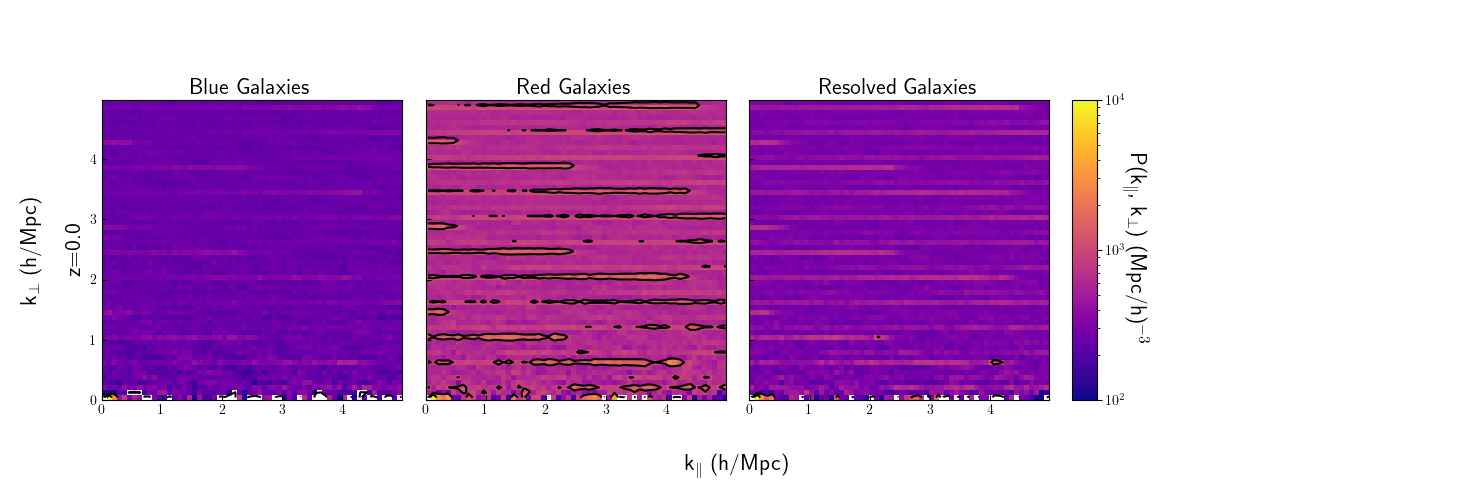
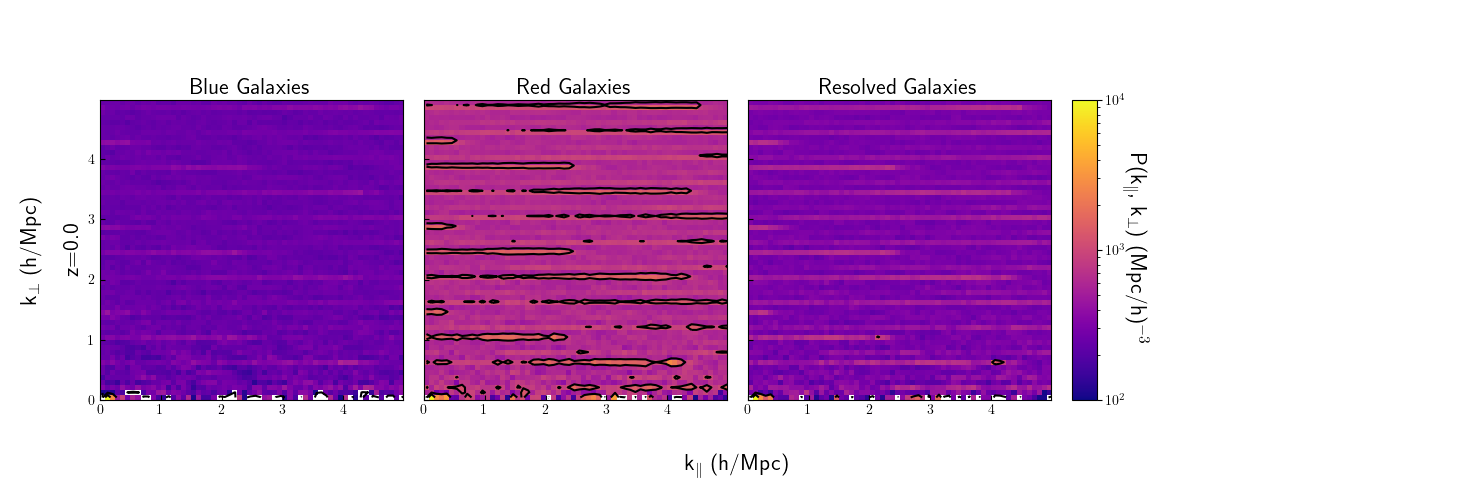
new figs

diff --git a/hc_lib/plots/fig_lib.py b/hc_lib/plots/fig_lib.py
@@ -231,7 +231,7 @@ class FigureLibrary():
                 # x_bound, y_bound, mass = pslice.getValues()
                 # extent=(x_bound[0], x_bound[1], y_bound[0], y_bound[1])
                 
-                im = plt.imshow(mass, extent=extent, origin='lower')
+                im = plt.imshow(mass, aspect = 'auto', extent=extent, origin='lower')
                 
 
         
@@ -245,8 +245,9 @@ class FigureLibrary():
                 plt.sca(p)
                 hist = self.figArr[i,j][0]
                 xbins, ybins, counts = hist.getValues()
+                counts = np.rot90(np.flip(counts, axis=0), 3)
                 extent = (xbins[0], xbins[-1], ybins[0], ybins[-1])
-                plt.imshow(counts, origin='lower', extent=extent)
+                plt.imshow(counts, origin='lower', extent=extent, aspect = 'auto')
                 if make_lines:
                     plt.plot([xbins[0], xbins[-1]], [0.6, 0.6], color='red')
                     plt.plot([xbins[0], xbins[-1]], [0.55, 0.55], color='red')
@@ -276,7 +277,7 @@ class FigureLibrary():
                 vmax = np.max(plotpk)
                 print(plotpk)
                 plt.imshow(plotpk, extent=extent, vmin = vmin, vmax = vmax, 
-                            origin='lower')
+                            origin='lower', aspect = 'auto')
                 
         return
     
@@ -378,7 +379,7 @@ class FigureLibrary():
 
     # TODO: add variance
     def makeColorbars(self, cbar_label = '', def_cmap = 'plasma', fsize = 16, vlim=[],
-                except_panels = []):
+                label_pad = 16, except_panels = []):
         
         if self.has_cbar_panel:
             self.matchColorbarLimits(vlim=vlim)
@@ -388,14 +389,15 @@ class FigureLibrary():
             self.assignColormaps(cmap_arr, under='w')
             cbar = plt.colorbar(cax=self.cax)
             self.cax.set_aspect(12, anchor='W')
-            cbar.set_label(cbar_label, labelpad = 16, fontsize = fsize, rotation=270)
+            cbar.set_label(cbar_label, labelpad = label_pad, fontsize = fsize, rotation=270)
         else:
             for i in range(self.dim[0]):
                 for j in range(self.dim[1]):
                     if (i,j) not in except_panels:
                         plt.sca(self.panels[i][j])
                         cbar = plt.colorbar(fraction=0.046, pad=0.04)
-                        cbar.set_label(cbar_label, rotation=270, fontsize=fsize)
+                        if j == self.dim[1] - 1:
+                            cbar.set_label(cbar_label, labelpad = label_pad, rotation=270, fontsize=fsize)
                         self.cax[i, j] = [cbar]
                         
 
@@ -464,7 +466,8 @@ class FigureLibrary():
         self.fig.suptitle(outstr, fontsize = fsize, wrap = True, usetex = False)
         return
         
-    def addRowLabels(self, rowlabels, pos = (0.05, 0.05), fsize = 16, is2D = False):
+    def addRowLabels(self, rowlabels, pos = (0.05, 0.05), fsize = 16, is2D = False,
+                    color = 'black'):
         dim = self.dim
         if not is2D:
             
@@ -472,21 +475,22 @@ class FigureLibrary():
                 p = self.panels[i][0]
                 plt.sca(p)
                 plt.text(pos[0], pos[1], self.texStr(rowlabels[i]), fontsize = fsize,
-                            ha = 'left', va = 'bottom', transform = p.transAxes)
+                            ha = 'left', va = 'bottom', color = color, 
+                            transform = p.transAxes)
         else:
             for i in range(dim[0]):
                 p = self.panels[i][0]
                 plt.sca(p)
-                plt.ylabel(rowlabels[i], fontsize=fsize)
+                plt.ylabel(rowlabels[i], color=color, fontsize=fsize)
         return
     
-    def addColLabels(self, collabels, fsize = 16):
+    def addColLabels(self, collabels, fsize = 16, color='black'):
         dim = self.dim
         for j in range(dim[1]):
             p = self.panels[0][j]
             plt.sca(p)
             p.xaxis.set_label_position('top')
-            plt.xlabel(self.texStr(collabels[j]), fontsize = fsize)
+            plt.xlabel(self.texStr(collabels[j]), color = color, fontsize = fsize)
         return
     
     def removeYTickLabels(self, panel_exceptions = []):

diff --git a/hc_lib/plots/figures/galaxy_auto.py b/hc_lib/plots/figures/galaxy_auto.py
@@ -459,16 +459,20 @@ def axisR_colorC_2D(rlib, iprops, savePath = '', panel_length = 3, panel_bt = 0.
     else:
         return flib
 
-def make_histograms(rlib, iprops, savePath='', panel_length = 3, panel_bt = 0.25,
+def make_histograms(rlib, iprops, savePath='', panel_length = 3, panel_bt = 1.25,
             border = 1):
     rowp = 'redshift'
     colp = 'fieldname'
     figArr, rowlabels, collabels = rlib.organizeFigure(iprops, rowp, colp, 'hist')
     flib = FigureLibrary(figArr)
-    
+    for c in range(len(collabels)):
+        if collabels[c] == 'galaxy':
+            collabels[c] = 'Fiducial'
+        elif collabels[c] == 'galaxy_dust':
+            collabels[c] = 'With Dust'
     flib.createFig(panel_length, panel_bt, border, border)
     flib.plotHists()
-    flib.addRowLabels(rowlabels)
+    flib.addRowLabels(rowlabels, pos = (0.9, 0.05) color = 'black')
     flib.addColLabels(collabels)
     flib.changeTickDirection()
     flib.axisLabel('Log (M$_*$/M$_\odot$)', 'x')

diff --git a/run/figures.py b/run/figures.py
@@ -28,8 +28,8 @@ def main():
 
     printlib('fieldname')
     
-    # hiptlAuto(rlib)
-    galaxyAuto(rlib)
+    hiptlAuto(rlib)
+    # galaxyAuto(rlib)
     # hisubhaloAuto(rlib)
     # ptlAuto(rlib)
     # vnAuto(rlib)
